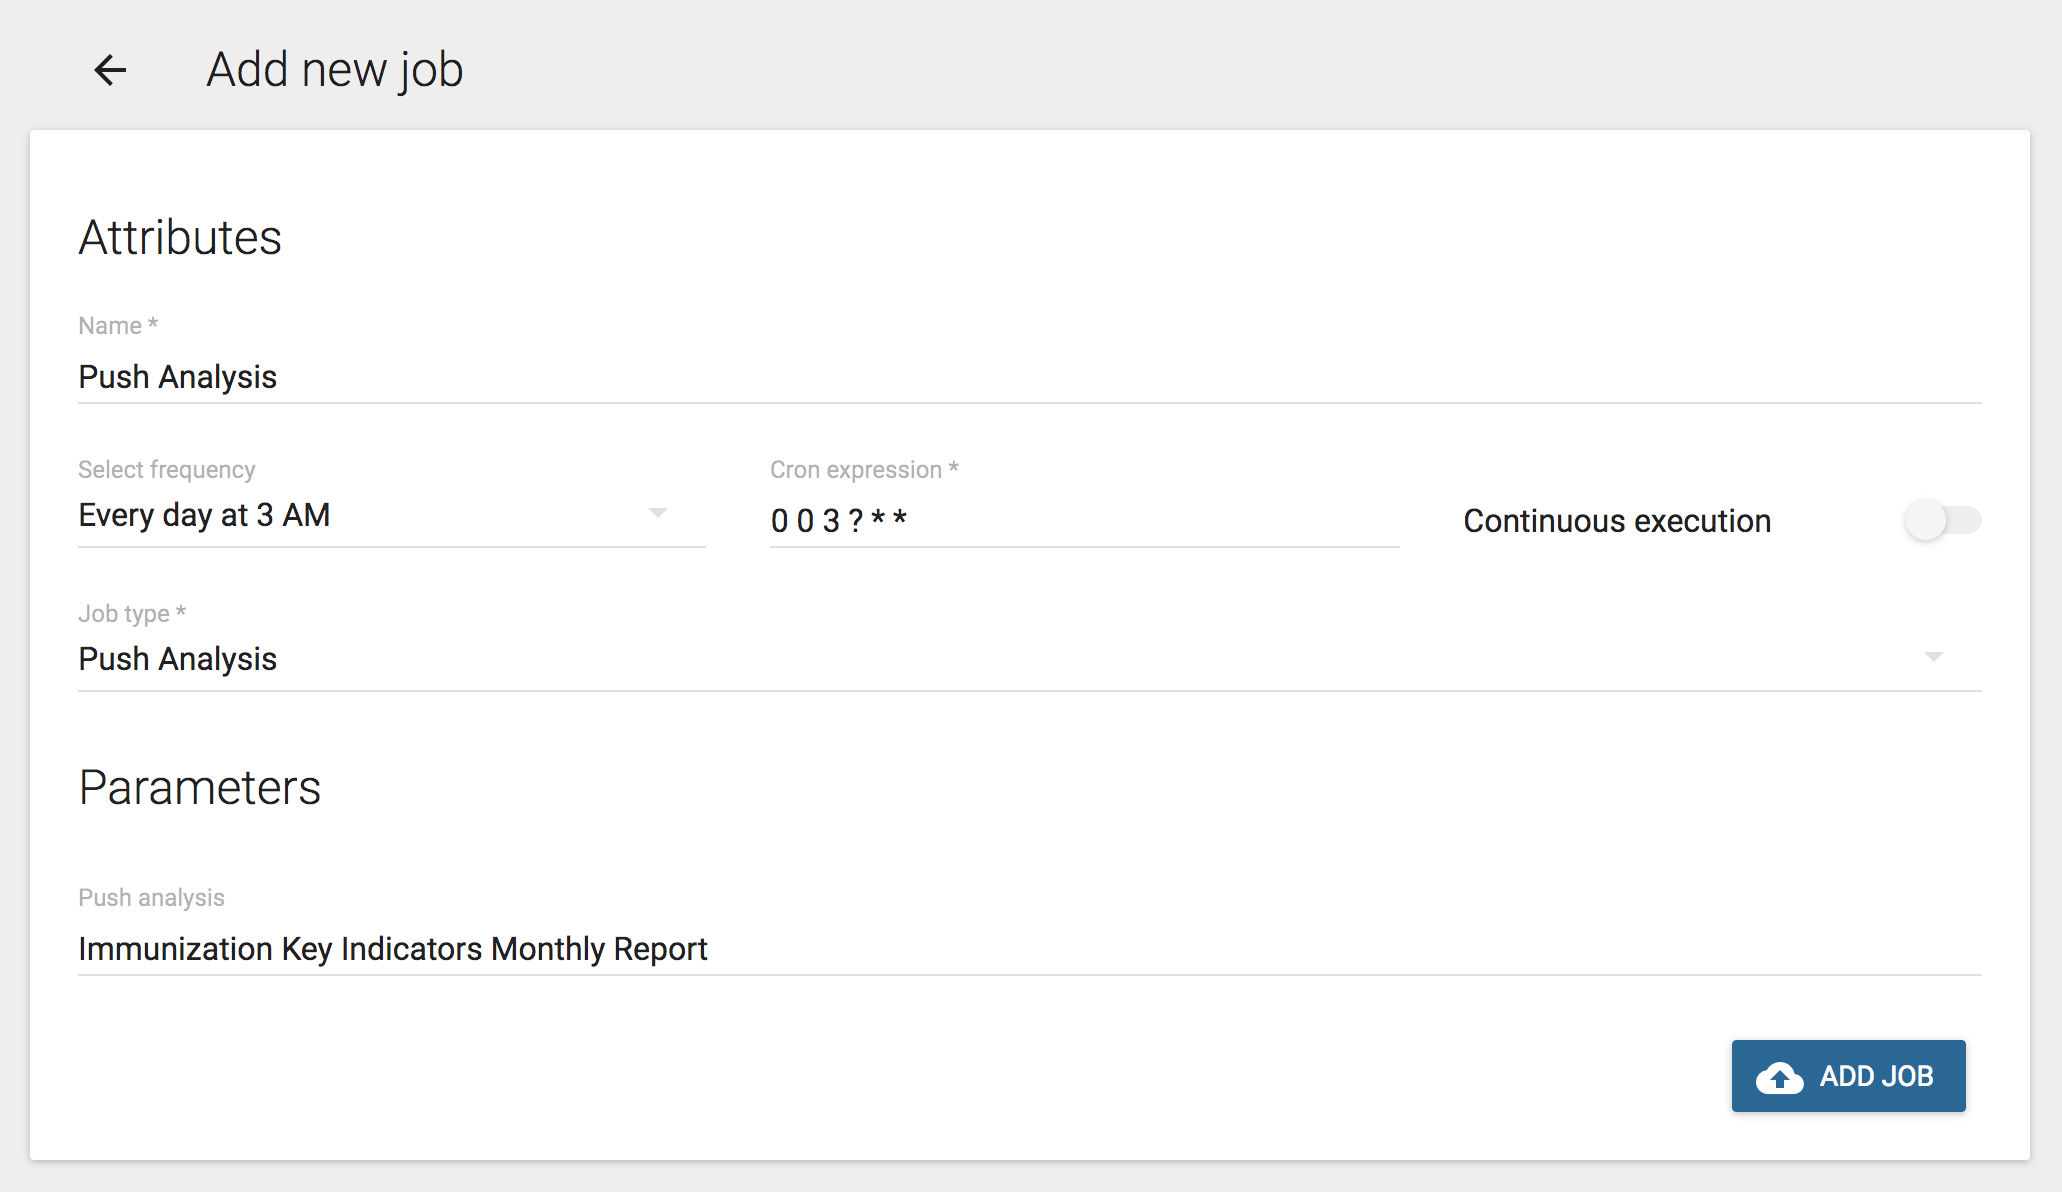
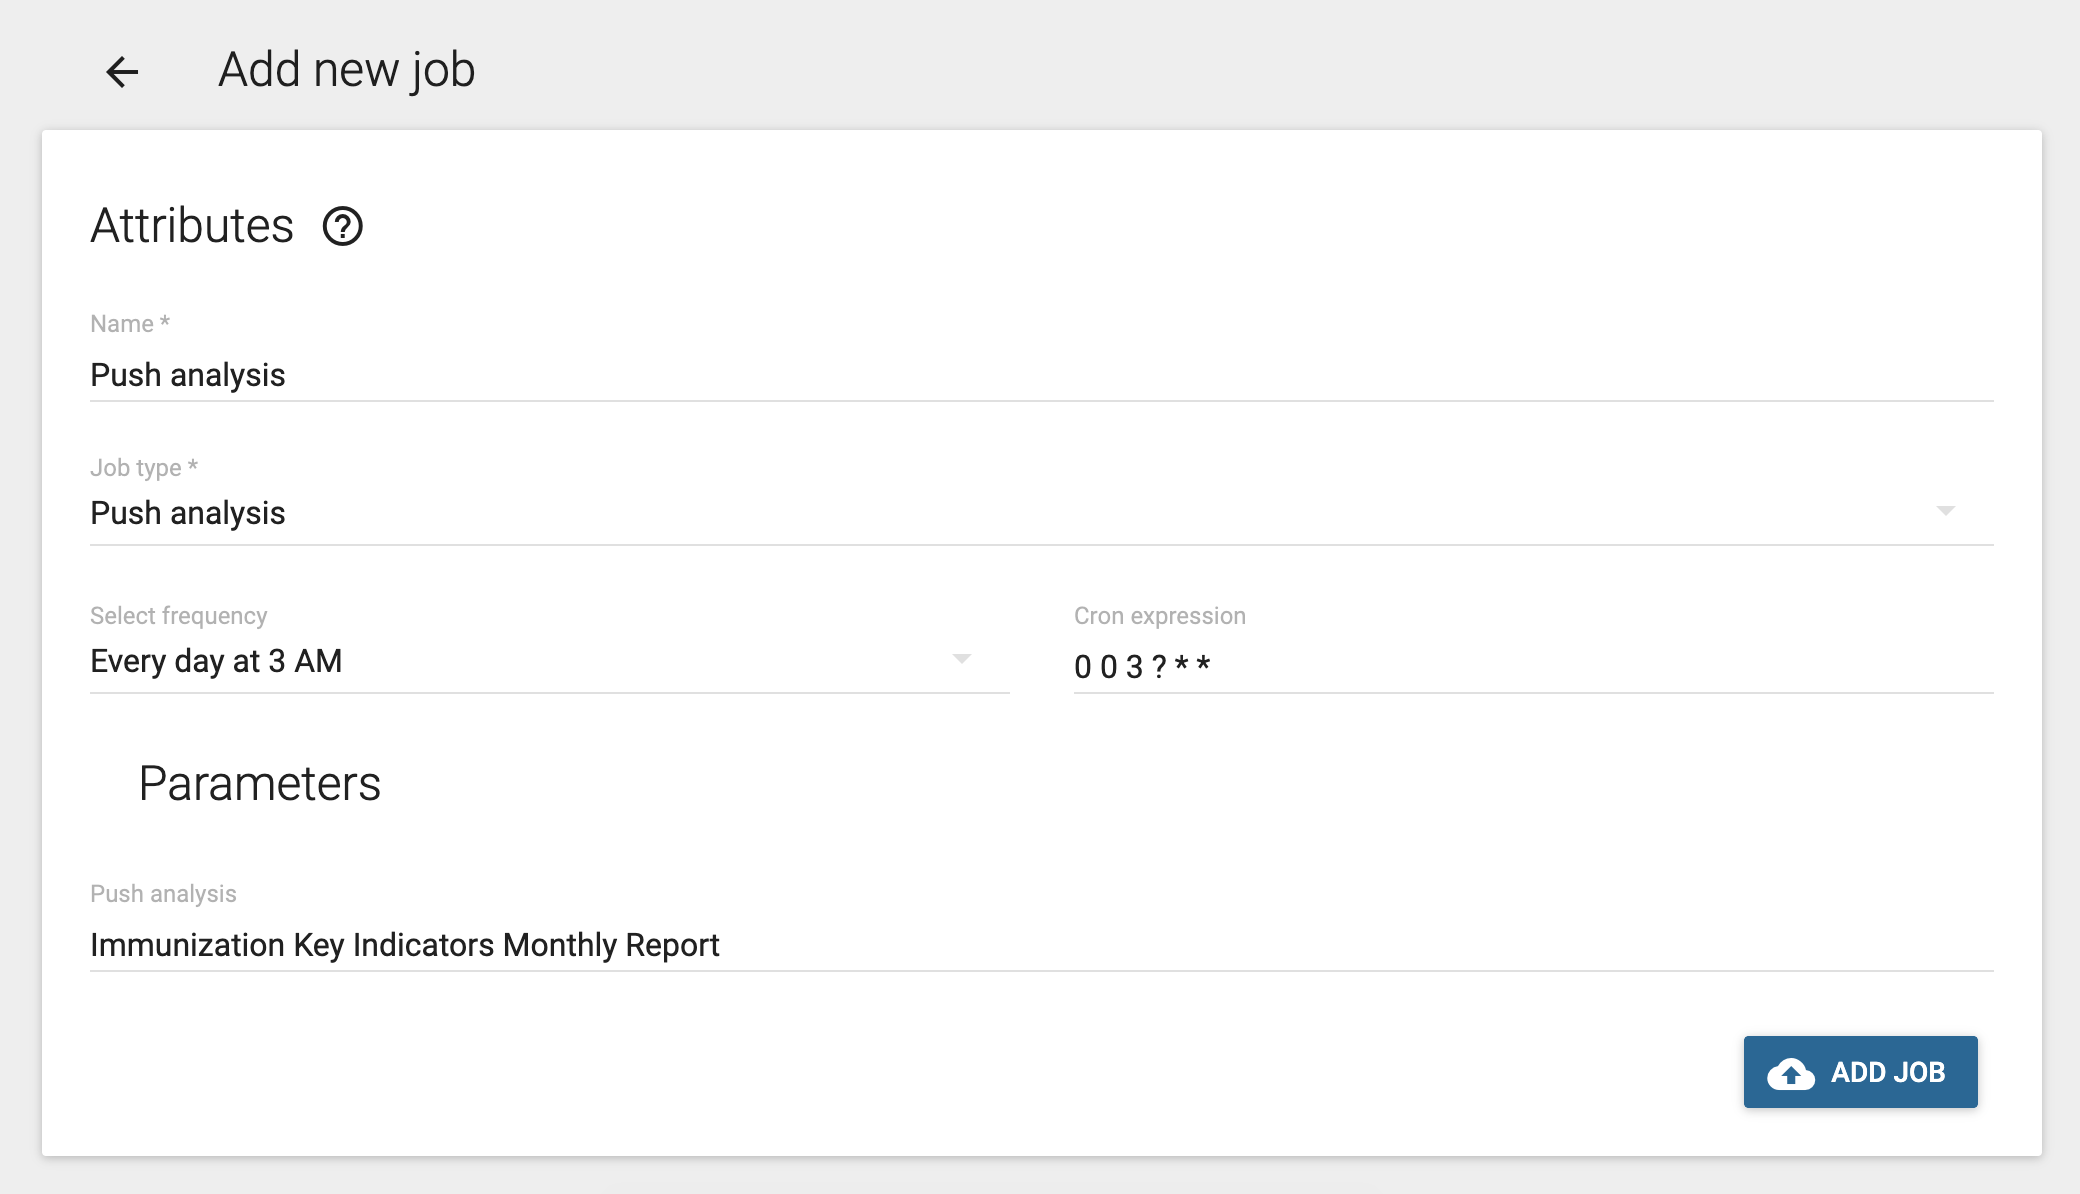
docs(scheduler): remove mention of continuous execution (#384)
* docs(scheduler): remove mention of continuous execution

* docs(scheduler): update scheduler images

diff --git a/src/commonmark/en/content/user/data-administration.md b/src/commonmark/en/content/user/data-administration.md
@@ -546,11 +546,6 @@ finished running.
             scheduling](https://docs.spring.io/spring/docs/current/javadoc-api/org/springframework/scheduling/support/CronSequenceGenerator.html)
             syntax.
 
-        1.  Enabling the **Continuous execution** option will make the job
-            run constantly. In other words, as soon as the job finishes, it
-            will be scheduled to run again right away. Selecting this option
-            will disable the other fields.
-
 1.  If the job type is customizable, a **Parameters** section will
     appear below. These additional options specify the details of the
     scheduled job, and will vary greatly depending on the job type.
